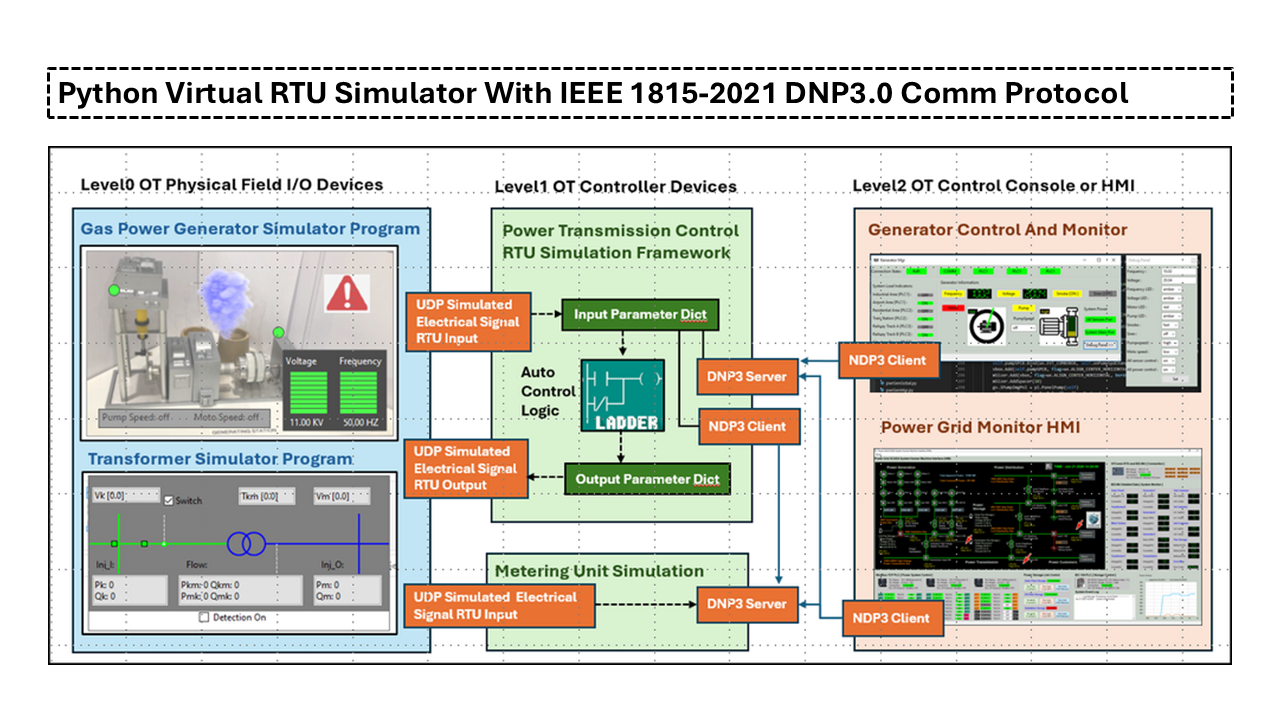
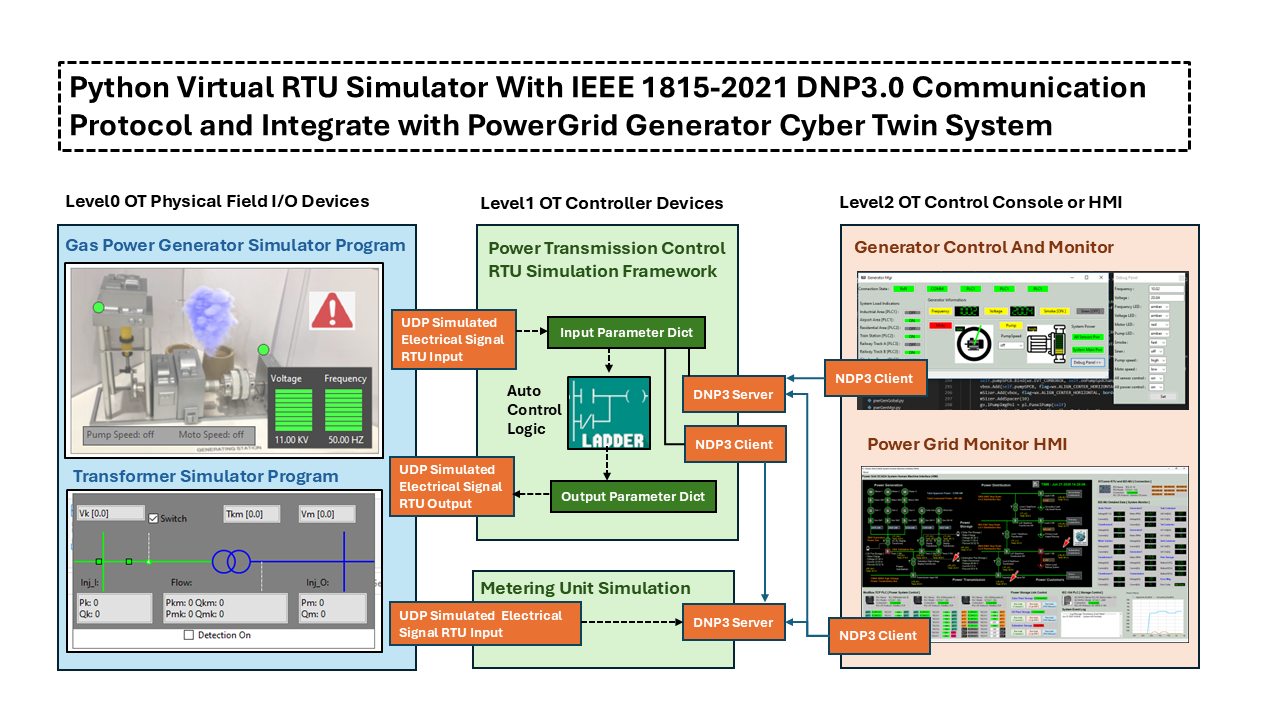
Added the table of contents.

diff --git a/DNP3_PLC_Simulator/Readme.md b/DNP3_PLC_Simulator/Readme.md
@@ -21,6 +21,21 @@ The new implementation consists of two main components :
 
 [TOC]
 
+- [Python Virtual RTU Simulator With IEEE 1815-2021 DNP3.0 Communication Protocol](#python-virtual-rtu-simulator-with-ieee-1815-2021-dnp30-communication-protocol)
+    + [1. Project Introduction](#1-project-introduction)
+      - [1.1 DNP3 Simulation System Overview](#11-dnp3-simulation-system-overview)
+      - [1.2 DNP3 System ISA-95 Architecture](#12-dnp3-system-isa-95-architecture)
+    + [2. DNP3 Protocol Background Knowledge](#2-dnp3-protocol-background-knowledge)
+      - [2.1 NDP 3 Protocol Packet Structure](#21-ndp-3-protocol-packet-structure)
+      - [2.2 Project DNP3 Master and Outstation Implementation](#22-project-dnp3-master-and-outstation-implementation)
+    + [3. Design of Virtual DNP3 RTU Simulator](#3-design-of-virtual-dnp3-rtu-simulator)
+      - [3.1 DNP3 Communication Module Design](#31-dnp3-communication-module-design)
+      - [3.2 RTU Framework Cyber-Twin Integration](#32-rtu-framework-cyber-twin-integration)
+    + [4. Use Case Example](#4-use-case-example)
+      - [4.1 Implementing the Outstation(RTU) Module](#41-implementing-the-outstation-rtu--module)
+      - [4.2 Implementing the Master(HMI) Module](#42-implementing-the-master-hmi--module)
+    + [5. Conclusion](#5-conclusion)
+
 ------
 
 ### 1. Project Introduction
@@ -210,7 +225,7 @@ The client hides the lower-level DNP3 packet construction and parsing from the a
 | `connect(ipaddress)`              | Establish a connection to a DNP3 Server/Outstation |
 | `readAll()`                       | Read all supported input and output data           |
 | `writeBinaryOutput(index, value)` | Change a Binary Output parameter value             |
-| `writeAnalogOutput(index, value)` | hange an Analog Output value                       |
+| `writeAnalogOutput(index, value)` | Change an Analog Output value                      |
 
 The `connect()` function allows the same client implementation to establish connections with different Outstations. Consequently, a Master application can instantiate multiple DNP3 clients to communicate with **one or many RTUs/Outstations**.
 
@@ -278,7 +293,7 @@ The following Python modules are provided as baseline examples and can be extend
 | ------------------------------- | ------------- | ------------------------------------------------------------ |
 | `src/dnp3Comm.py`               | python 3.7+   | Core library implementing IEEE 1815-2021 DNP3.0 client/server APIs used to simulate data and command interactions between RTU and SCADA software. |
 | `src/dnp3CommTest.py`           | python 3.7+   | This module is the test case program for the (IEEE 1815) DNP3.0  library <dnp3Comm.py>, it will start a server in sub-thread and init 2 clients to test the data read and write function. |
-| `testcase/dnp3RtuServerTest.py` | python 3.7+   | A simple RTU simulation program use the DNP3 lib module  to simulate a PLC/RTU with one DNP3.0 serverand one execution logic to handle variable read and changeable value set from client side. |
+| `testcase/dnp3RtuServerTest.py` | python 3.7+   | A simple RTU simulation program use the DNP3 lib module  to simulate a PLC/RTU with one DNP3.0 server and one execution logic to handle variable read and changeable value set from client side. |
 | `testcase/dnp3RtuClientTest.py` | python 3.7+   | A simple RTU simulation program use the DNP3 lib module  to simulate a HMI with one DNP3.0 client to read and write data from the connected DNP3.0 server side |
 
 #### 4.1 Implementing the Outstation(RTU) Module
